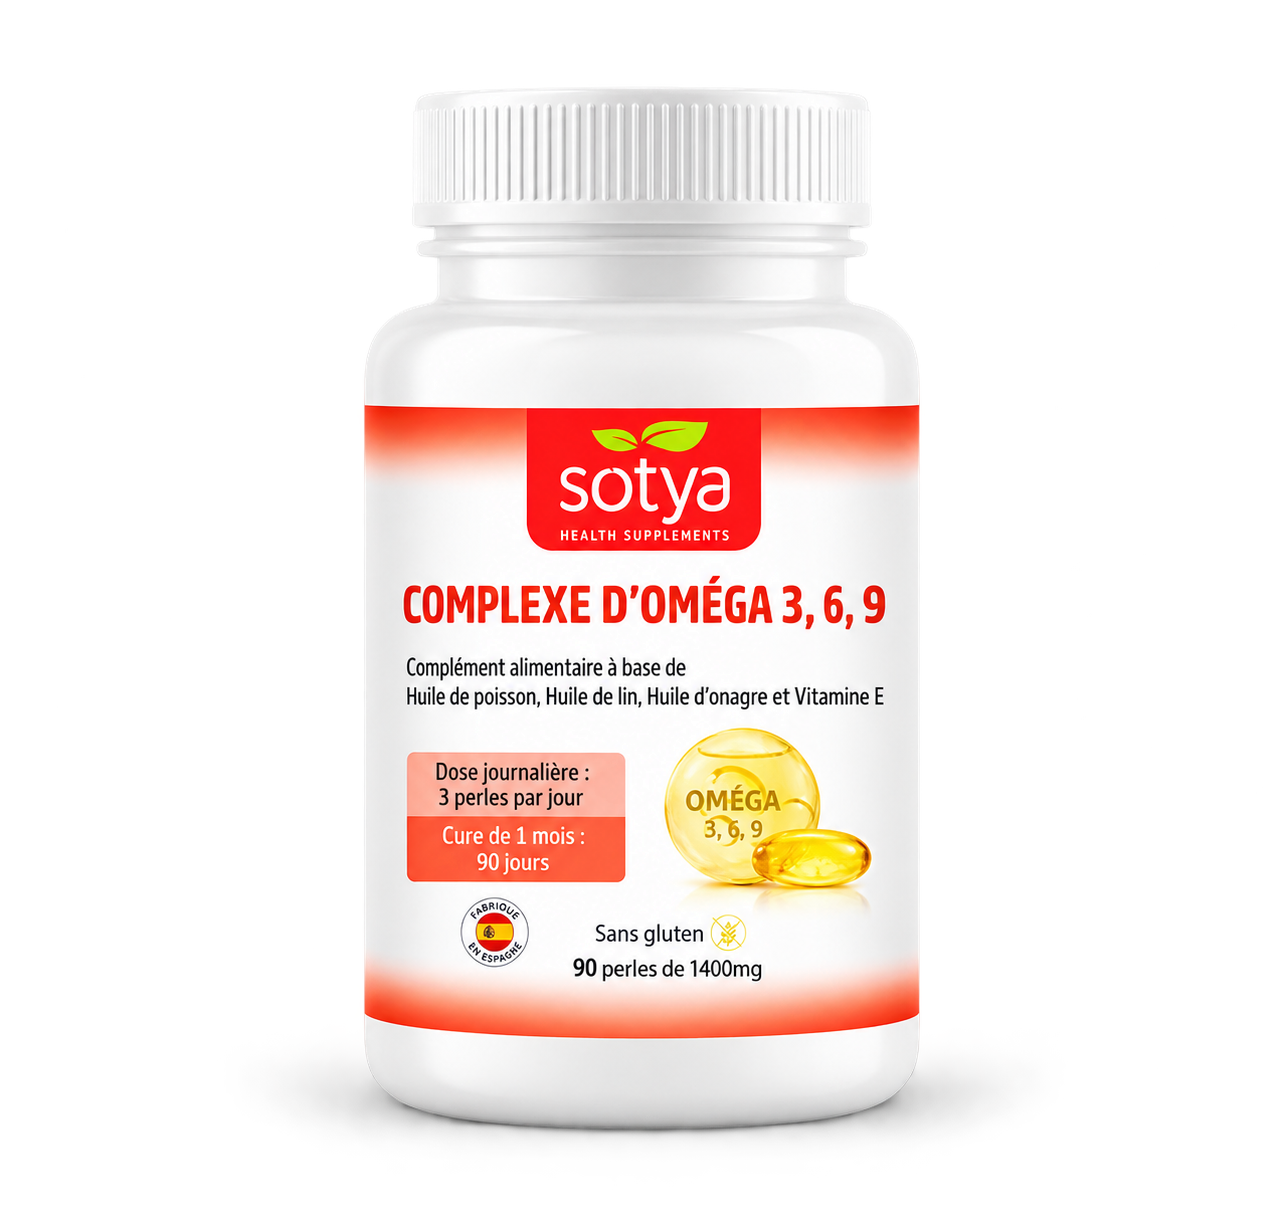
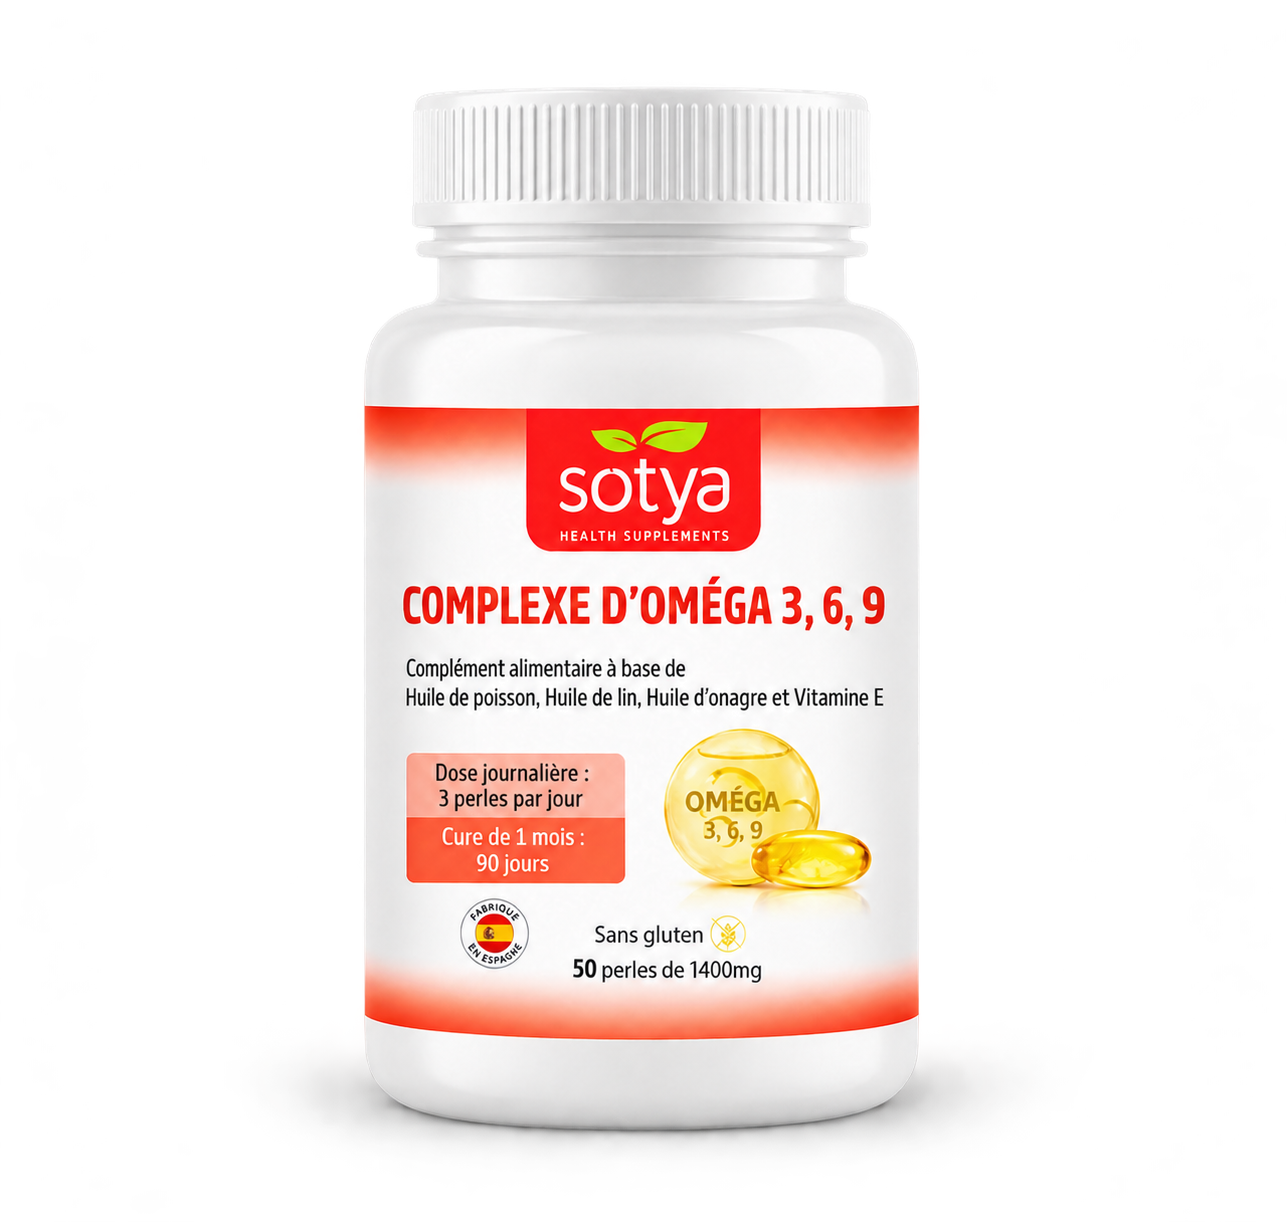
fix: update product image badges to match etiquette

diff --git a/frontend/src/lib/products.ts b/frontend/src/lib/products.ts
@@ -54,7 +54,7 @@ export const products: Product[] = [
     categories: ['Stress & Sommeil', 'Énergie & Vitalité'],
     imagePath: '/images/products/magnesium-cutout.png',
     labelImagePath: '/images/labels/bisglycinate-magnesium.png',
-    imageBadge: '100 gélules',
+    imageBadge: '300 gélules',
     videoPath: '/videos/vidmag.mp4',
     description: 'Complément alimentaire à base de magnésium, zinc et vitamine D3. Le magnésium contribue à réduire la fatigue et au fonctionnement normal du système nerveux et musculaire.',
     longDescription: "Cette formule associe du magnésium sous forme de bisglycinate à du zinc et à la vitamine D3. Le magnésium contribue à réduire la fatigue et au fonctionnement normal du système nerveux et musculaire, tandis que le zinc et la vitamine D participent au fonctionnement normal de l'organisme.\nUne formule pensée pour accompagner les besoins quotidiens en magnésium, notamment lors des périodes de fatigue ou lorsque les besoins nutritionnels sont accrus.",
@@ -90,7 +90,7 @@ export const products: Product[] = [
     name: 'Complexe de Mélatonine',
     brand: 'SOTYA',
     categories: ['Stress & Sommeil'],
-    imagePath: '/images/products/melatonine-cutout.png',
+    imagePath: '/images/products/complexe-de-melatonine-cutout.png',
     labelImagePath: '/images/labels/complexe-melatonine.png',
     description: 'Complément alimentaire à base de vitamines du groupe B, choline et inositol. Les vitamines B2, B3, B5, B6 et B12 contribuent à réduire la fatigue.',
     longDescription: "Cette formule associe la mélatonine au magnésium, au L-tryptophane et à la vitamine B6. La mélatonine contribue à réduire le temps nécessaire à l'endormissement lorsqu'elle est consommée peu avant le coucher, tandis que le magnésium et la vitamine B6 participent au fonctionnement normal du système nerveux.\nUne formule conçue pour accompagner la routine du soir et les besoins liés à l'endormissement.",
@@ -181,7 +181,7 @@ export const products: Product[] = [
     categories: ['Cardio-vasculaire'],
     imagePath: '/images/products/omegaa-cutout.png',
     labelImagePath: '/images/labels/complexe-omega-369.png',
-    imageBadge: '50 perles',
+    imageBadge: '100 perles',
     description: 'Complément alimentaire à base de Huile de poisson, Huile de lin, Huile d\'onagre et Vitamine E.',
     longDescription: "Cette formule réunit trois sources d'acides gras : l'huile de poisson, l'huile de lin et l'huile d'onagre. Elle apporte notamment des oméga-3 issus de l'huile de poisson et du lin, des oméga-6 issus de l'onagre et du lin, ainsi que des oméga-9. La formule est complétée par de la vitamine E.\nUne association de sources marines et végétales pour apporter différentes familles d'acides gras dans une même formule.",
     composition: "Pour 3 perles : huile de poisson 996 mg (EPA 180 mg, DHA 120 mg), huile de lin 996 mg (ALA 648 mg, acide linoléique 240 mg, acide oléique 240 mg), huile d'onagre 996 mg (GLA 100 mg), vitamine E 7,5 mg (62,5 % VNR).",
